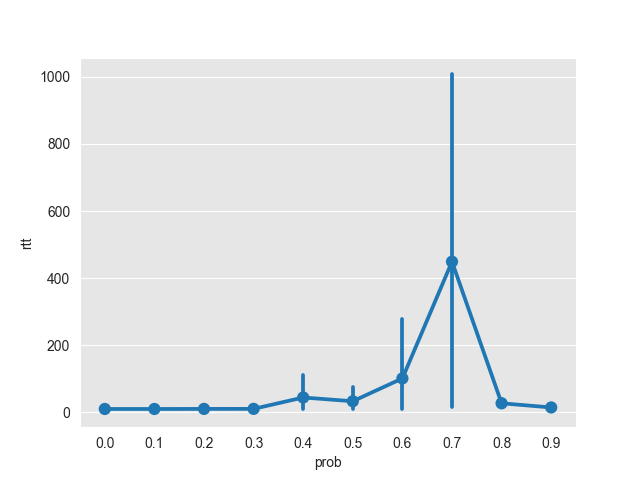
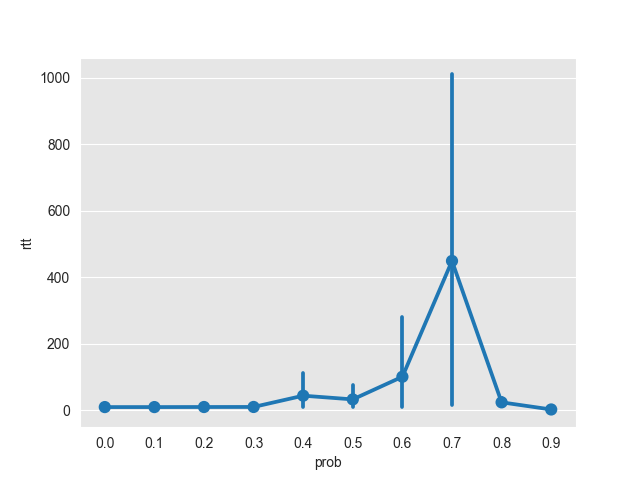
plot fix

diff --git a/pa2part2correct/plot.py b/pa2part2correct/plot.py
@@ -2,6 +2,7 @@ import numpy as np
 import pandas as pd
 import seaborn as sns
 import warnings
+import os
 
 warnings.filterwarnings("ignore")
 
@@ -26,6 +27,11 @@ def cout_conf_interval(df, Z=1.96):
 
 
 if __name__ == '__main__':
+
+    if not os.path.exists('my_folder'):
+        os.makedirs('my_folder')
+
+
     sns.set_style("darkgrid", {"axes.facecolor": ".9"})
 
     data = pd.read_csv('corrupt_exp', names=['ave_cmt', 'prob', 'rands', 'rtt', 'retrans'])
@@ -49,6 +55,7 @@ if __name__ == '__main__':
     fig.clf()
 
     data = pd.read_csv('drop_exp', names=['ave_cmt', 'prob', 'rands', 'rtt', 'retrans'])
+    data.fillna(0, inplace=True)
     data = data.iloc[:, [1,3]]
     print("loss case interval")
     cout_conf_interval(data)
@@ -59,6 +66,7 @@ if __name__ == '__main__':
     fig.clf()
 
     data = pd.read_csv('corrupt_exp', names=['ave_cmt', 'prob', 'rands', 'rtt', 'retrans'])
+    data.fillna(0, inplace=True)
     data = data.iloc[:, [1,3]]
     print("loss case interval")
     cout_conf_interval(data)
